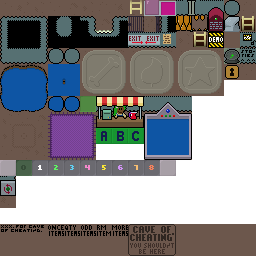
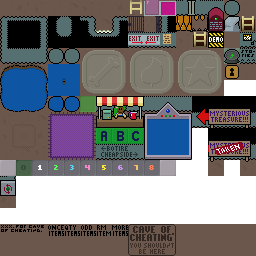
some cave signage

Changed region(s): [[0.75, 0.375, 1.0, 0.6875], [0.375, 0.5625, 0.5625, 0.625]]

diff --git a/src/game/shared_symbols.h b/src/game/shared_symbols.h
@@ -50,6 +50,7 @@
 #define CMD_map_race            0x4d /* u16:pos u8:raceid u8:seq */
 #define CMD_map_track           0x4e /* u16:pos u8:raceid u8:seq ; Just like (race) but for CPU only, and finer-grained. */
 #define CMD_map_flammable       0x4f /* u16:pos u16:fld */
+#define CMD_map_ifitem          0x50 /* u16:pos u8:itemid s8:delta ; switchable, but keyed off an item, and arbitrary tileid delta. */
 #define CMD_map_sprite          0x60 /* u16:pos u16:rid u32:arg */
 #define CMD_map_rsprite         0x61 /* u16:rid u8:weight u8:limit u32:arg ; Must remain identical to the "rsprite" command in rsprite resources. */
 #define CMD_map_door            0x62 /* u16:pos u16:rid u16:dstpos u16:activity */

diff --git a/src/game/map.c b/src/game/map.c
@@ -27,6 +27,17 @@ void map_freshen_tiles(struct map *map,struct map_extras *extras) {
             }
           }
         } break;
+      case CMD_map_ifitem: {
+          int x=cmd.arg[0],y=cmd.arg[1];
+          if ((x<NS_sys_mapw)&&(y<NS_sys_maph)) {
+            int p=y*NS_sys_mapw+x;
+            if (store_get_itemid(cmd.arg[2])) {
+              map->v[p]=map->rov[p]+cmd.arg[3];
+            } else {
+              map->v[p]=map->rov[p];
+            }
+          }
+        } break;
       case CMD_map_burieddoor: {
           int x=cmd.arg[0],y=cmd.arg[1];
           if ((x<NS_sys_mapw)&&(y<NS_sys_maph)) {
